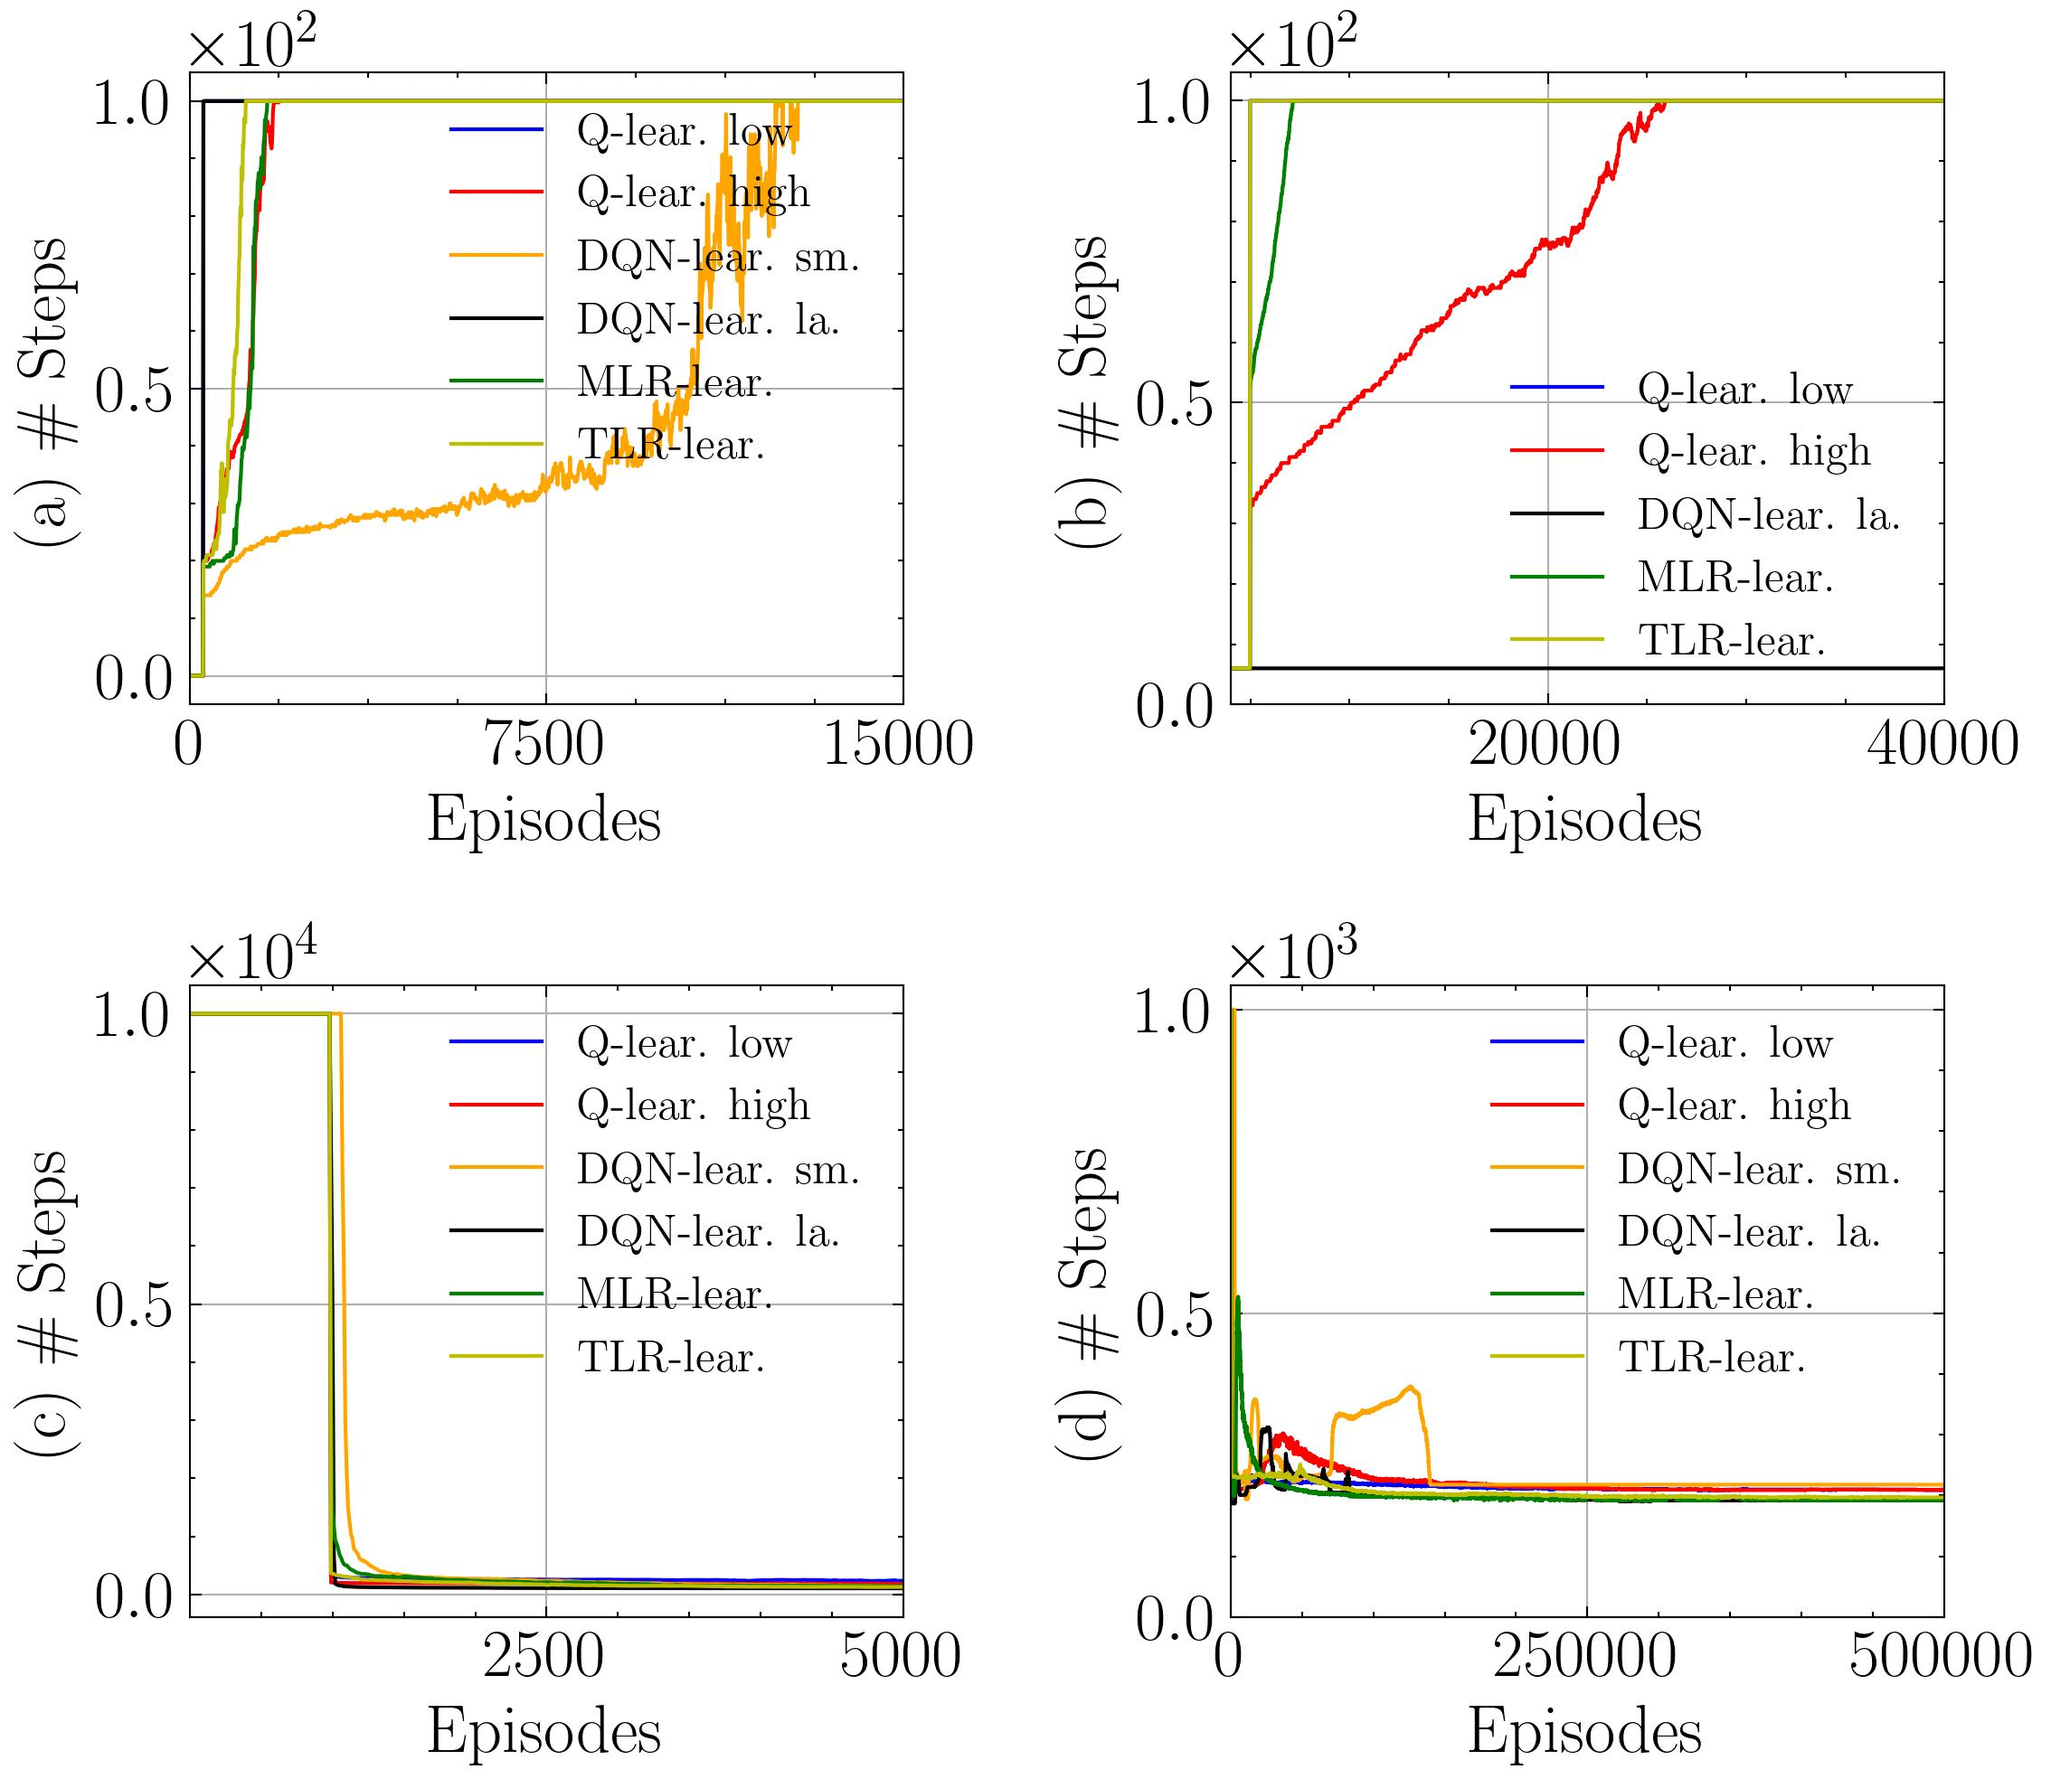
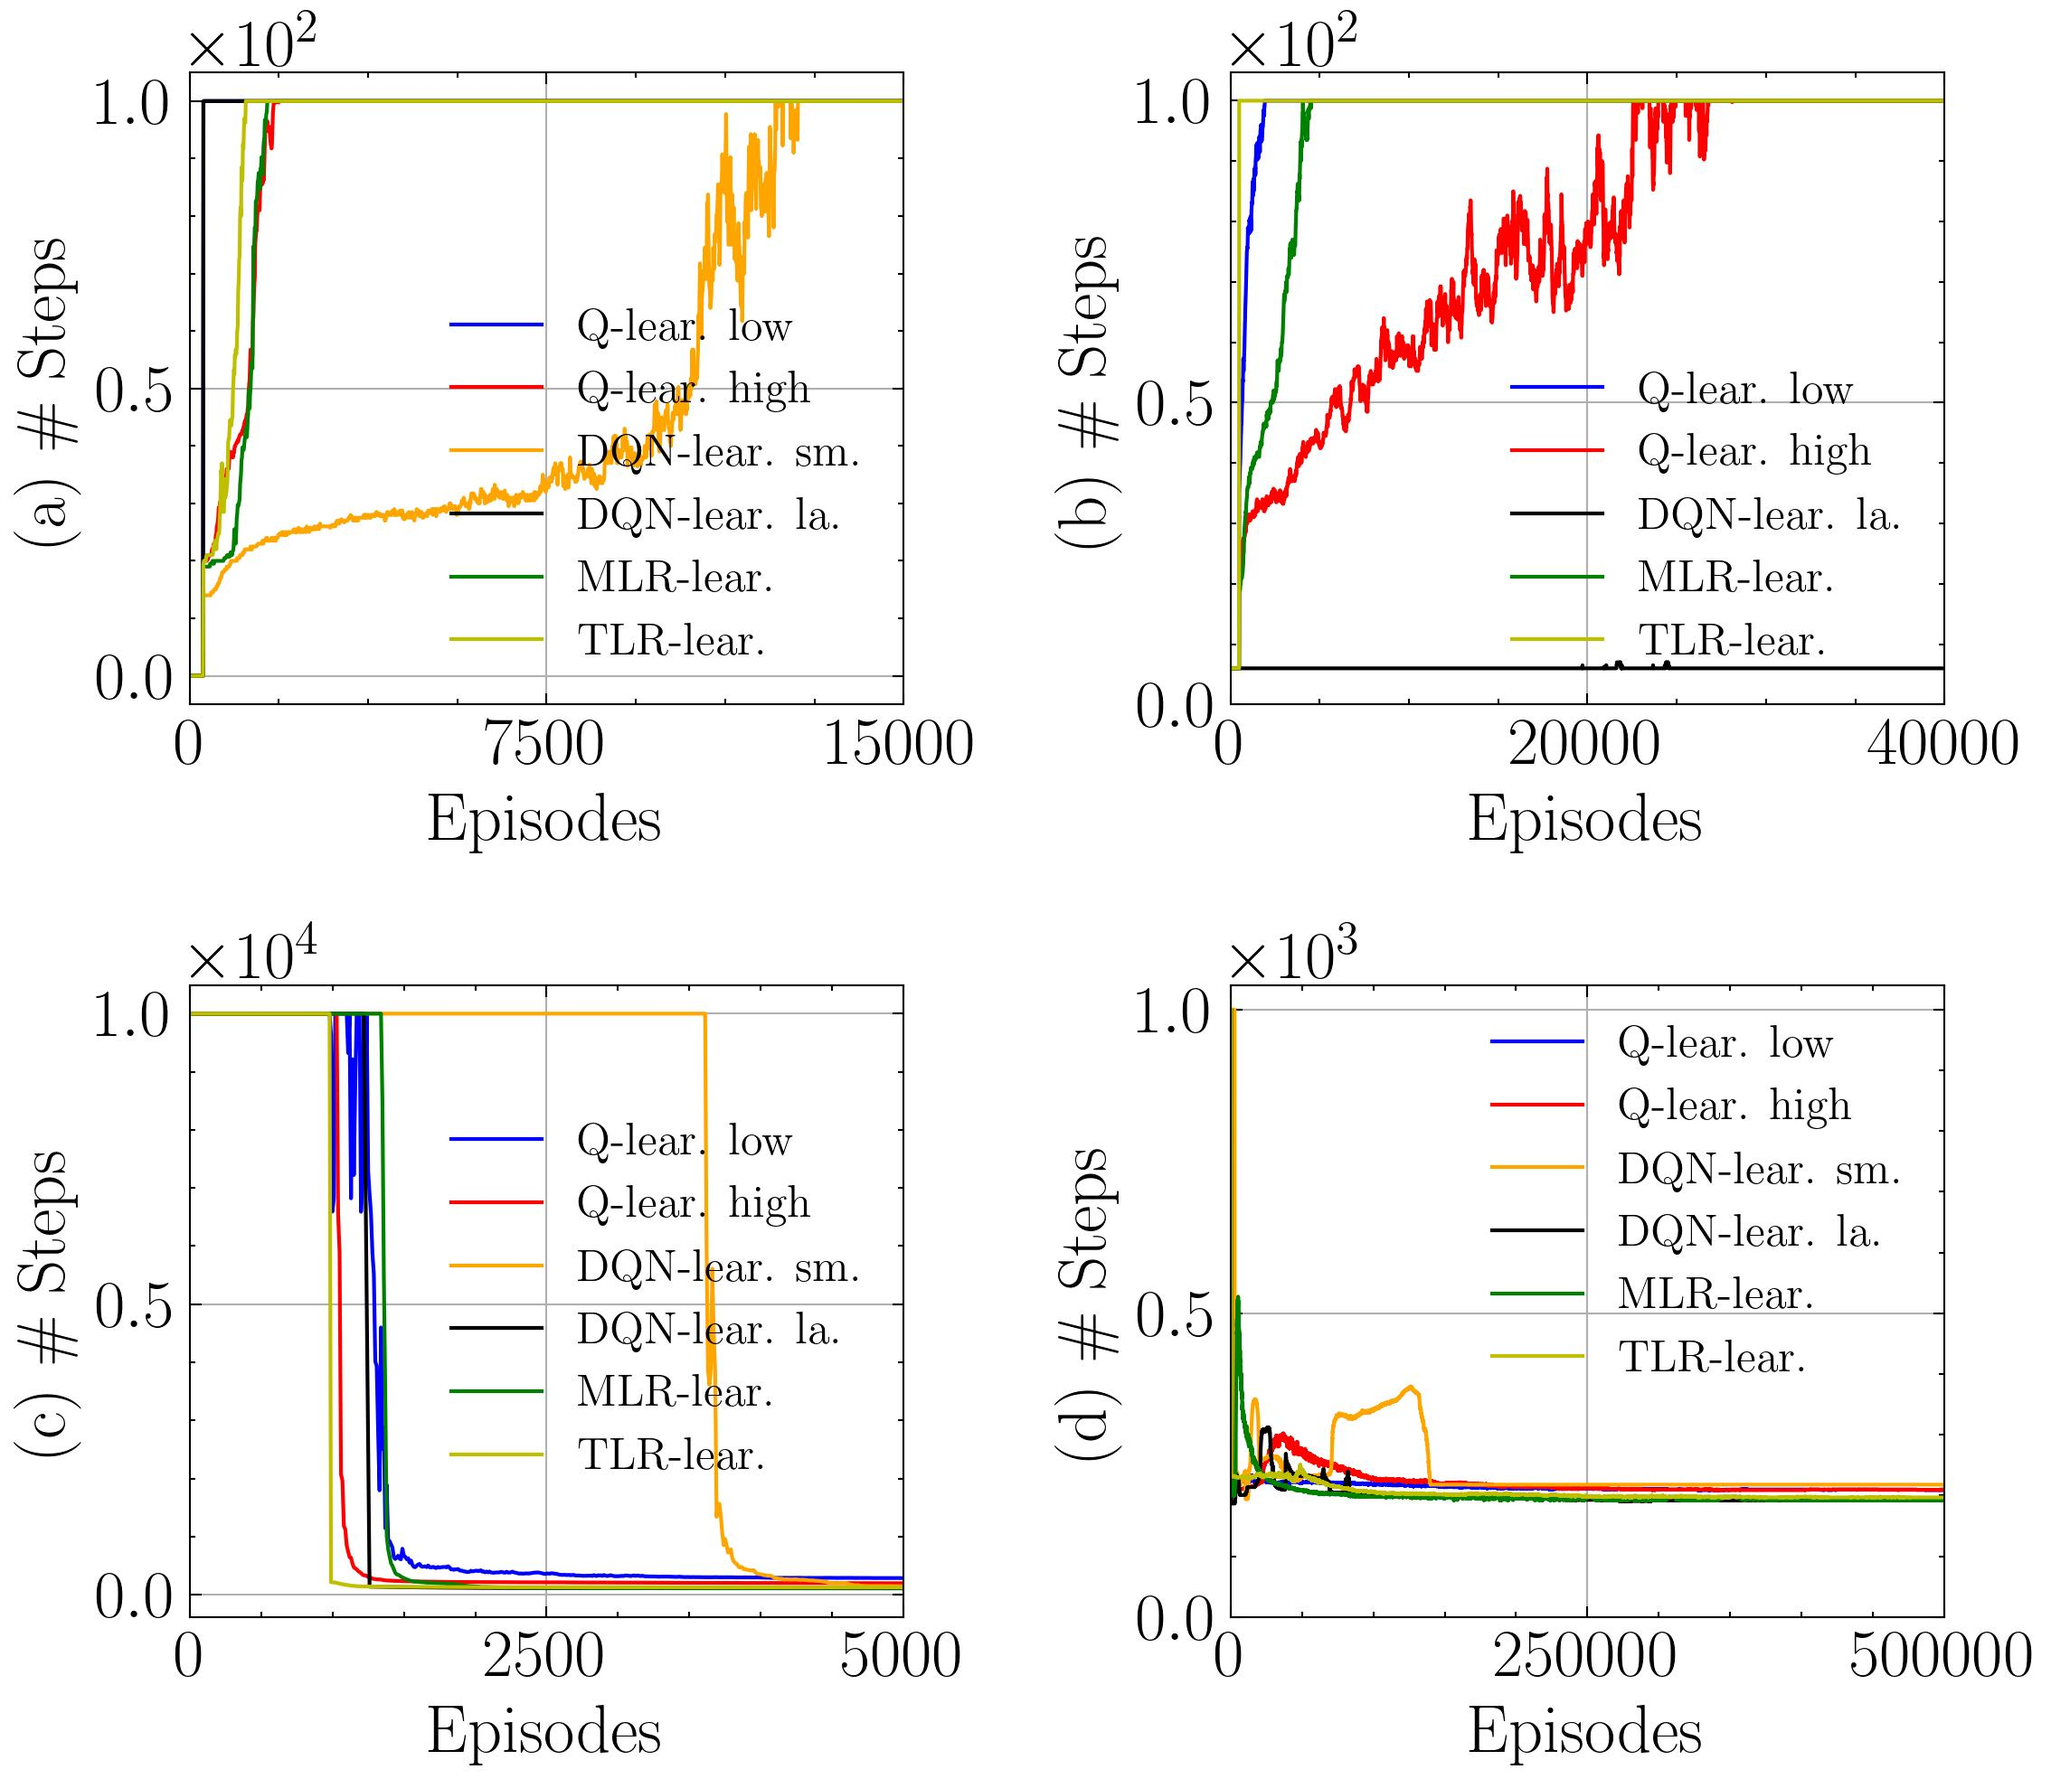
feature: final figures and exp 5

diff --git a/5_exp_methods_comparison.py b/5_exp_methods_comparison.py
@@ -38,7 +38,7 @@ if __name__ == "__main__":
         if name in experiments_done:
             continue
         experiment = Experiment(name, env_cartpole, N_NODES)
-        experiment.run_experiments(window=500)
+        experiment.run_experiments(window=50)
 
     # Mountaincar
     experiments = [f for f in os.listdir('parameters') if 'mountaincar' in f and 'scale' not in f]
@@ -94,7 +94,7 @@ if __name__ == "__main__":
         axes[0].set_xticks([0, 7500, 15000])
         axes[0].yaxis.set_major_formatter(OOMFormatter(2, "%1.1f"))
         axes[0].ticklabel_format(style = 'sci', axis='y', scilimits=(0,0))
-        axes[0].legend(labels, fontsize=12, loc='upper right')
+        axes[0].legend(labels, fontsize=12, loc='lower right')
         axes[0].grid()
 
         prefix = 'results/cartpole_'
@@ -110,7 +110,7 @@ if __name__ == "__main__":
         axes[1].set_xticks([0, 20000, 40000])
         axes[1].yaxis.set_major_formatter(OOMFormatter(2, "%1.1f"))
         axes[1].ticklabel_format(style = 'sci', axis='y', scilimits=(0,0))
-        axes[1].set_xlim(4000, 40000)
+        axes[1].set_xlim(0, 40000)
         axes[1].legend([l for l in labels if 'sm.' not in l], fontsize=12, loc='lower right')
         axes[1].grid()
 
@@ -125,7 +125,7 @@ if __name__ == "__main__":
         axes[2].set_xlabel("Episodes", labelpad=4)
         axes[2].set_ylabel("(c) $\#$ Steps")
         axes[2].set_yticks([0, 5000, 10000])
-        axes[2].set_xticks([2500, 5000])
+        axes[2].set_xticks([0, 2500, 5000])
         axes[2].yaxis.set_major_formatter(OOMFormatter(4, "%1.1f"))
         axes[2].ticklabel_format(style = 'sci', axis='y', scilimits=(0,0))
         axes[2].set_xlim(0, 5000)
